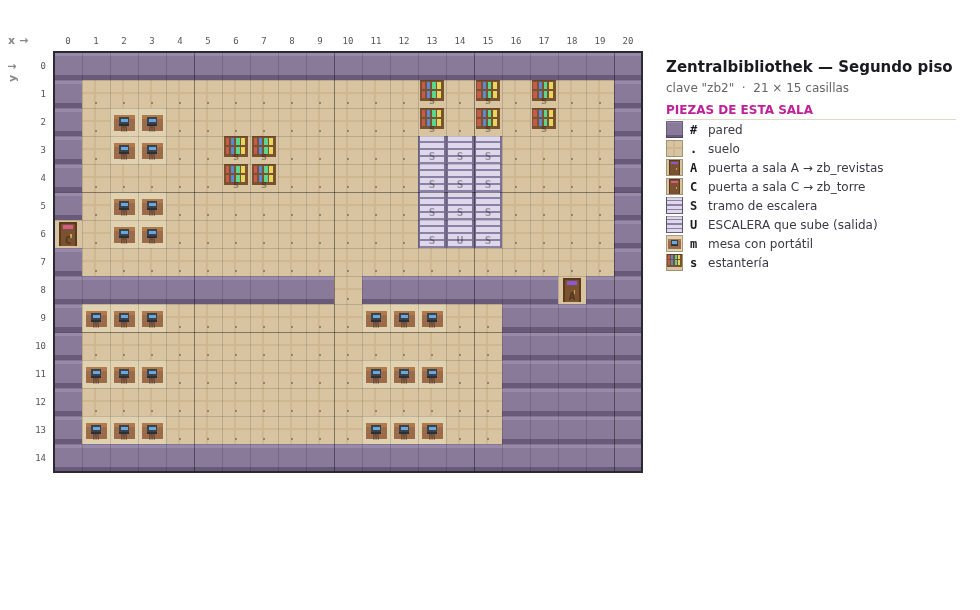
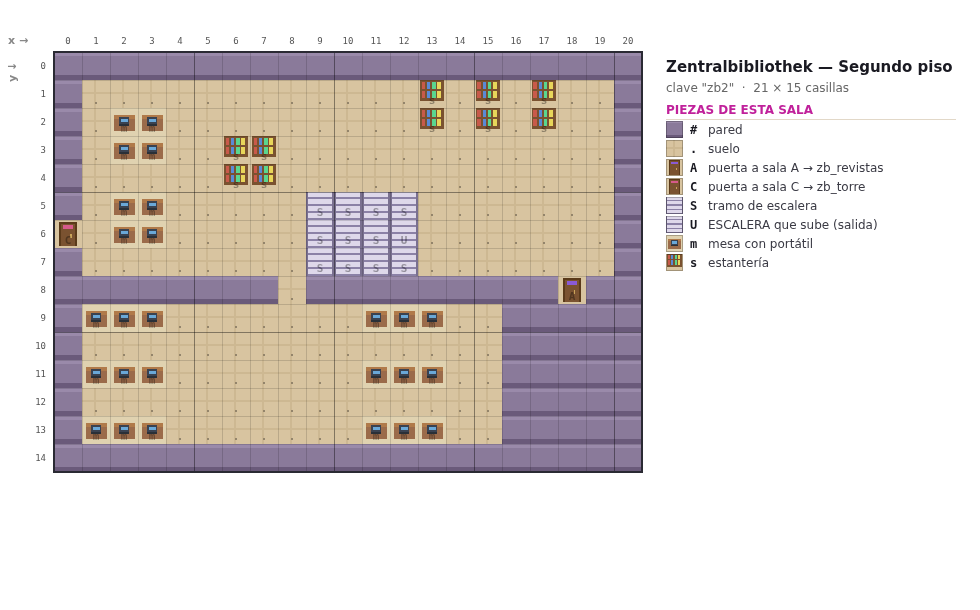
Girar las escaleras de la biblioteca y generalizar el sentido de subida
Las dos escaleras de la Zentralbibliothek pasan de verticales a
horizontales, giradas 90 grados a la izquierda: en la planta baja, esquina
superior izquierda en (6,7), pegada al tabique que separa el vestíbulo de
la recepción; en el segundo piso, esquina superior derecha en (12,5). Se
sube de izquierda a derecha y se baja de derecha a izquierda.

Para que esto funcione, el motor deja de dar por hecho que una escalera se
recorre hacia arriba. dirEscalera() deduce el sentido de la forma del
tramo: recorre el bloque de peldaños, y si es más ancho que alto se sube en
horizontal, si no en vertical; la dirección va del peldaño activo hacia el
resto del tramo. usarEscalera() usa ese vector tanto para meterse en el
tramo como para salir por el del otro piso. Las escaleras verticales de la
Mensa siguen dando [0,-1] y se comportan igual que antes.

Efecto colateral que hubo que resolver: la fila inferior de la escalera del
segundo piso caía justo sobre el paso del tabique, en x=10, y lo dejaba
tapado. El paso se mueve a x=8, a la izquierda de la escalera.

Probado en navegador real: subida y bajada de la biblioteca terminando en
las casillas esperadas, el paso del tabique despejado, y la Mensa sin
regresión. Sin errores de JS. validateMaps() da 0 errores y 0 avisos.

Claude-Session: https://claude.ai/code/session_01MUkCxWMxEAWrFgXYAJ3j4N

Changed region(s): [[0.2755, 0.218, 0.5204, 0.4984]]

diff --git a/index.html b/index.html
@@ -641,12 +641,12 @@ const INTERIORS = {
       "#.s.s...........c...#",
       "#.s.s...........c...#",
       "#.s.s...........c...#",
-      "#.....SSS.......c...#",
-      "#.s.s.SSS.......c...#",
-      "#.s.s.SSS.......c...#",
-      "#.s.s.SVS...........#",
-      "#...................#",
-      "#...................#",
+      "#...............c...#",
+      "#.s.s...........c...#",
+      "#.s.s...........c...#",
+      "#.s.s.SSSS..........#",
+      "#.....VSSS..........#",
+      "#.....SSSS..........#",
       "###########.#########",
       "#.II.II.II.......####",
       "#................#A##",
@@ -655,7 +655,7 @@ const INTERIORS = {
       "###########E#########",
     ],
     doors:[
-      {x:7, y:7,  to:'zb2'},
+      {x:6, y:8,  to:'zb2'},
       {x:18,y:12, to:'zb_bano_m'},
       {x:18,y:14, to:'zb_bano_h'},
     ],
@@ -688,12 +688,12 @@ const INTERIORS = {
       "#####################",
       "#............s.s.s..#",
       "#.mm.........s.s.s..#",
-      "#.mm..ss.....SSS....#",
-      "#.....ss.....SSS....#",
-      "#.mm.........SSS....#",
-      "C.mm.........SUS....#",
-      "#...................#",
-      "##########.#######A##",
+      "#.mm..ss............#",
+      "#.....ss............#",
+      "#.mm.....SSSS.......#",
+      "C.mm.....SSSU.......#",
+      "#........SSSS.......#",
+      "########.#########A##",
       "#mmm.......mmm..#####",
       "#...............#####",
       "#mmm.......mmm..#####",
@@ -1898,6 +1898,28 @@ function avanzarGuion(){
   player.dir = nx>player.x?'right' : nx<player.x?'left' : ny>player.y?'down' : 'up';
   player.tx=nx; player.ty=ny; player.moving=true;
 }
+// bordes del tramo de escalera al que pertenece una casilla
+function tramoEscalera(g,x,y){
+  const es=(a,b)=>{const c=(g[b]||'')[a]; return c==='S'||c==='V'||c==='U';};
+  const vistos=new Set([x+','+y]), cola=[[x,y]];
+  let x0=x,x1=x,y0=y,y1=y;
+  while(cola.length){
+    const [a,b]=cola.pop();
+    x0=Math.min(x0,a); x1=Math.max(x1,a); y0=Math.min(y0,b); y1=Math.max(y1,b);
+    for(const [dx,dy] of [[0,-1],[0,1],[-1,0],[1,0]]){
+      const p=(a+dx)+','+(b+dy);
+      if(!vistos.has(p) && es(a+dx,b+dy)){ vistos.add(p); cola.push([a+dx,b+dy]); }
+    }
+  }
+  return {x0,x1,y0,y1};
+}
+// sentido en el que se recorre: del peldano activo hacia el resto del tramo.
+// Un tramo mas ancho que alto se sube en horizontal; si no, en vertical.
+function dirEscalera(g,x,y){
+  const t=tramoEscalera(g,x,y);
+  if((t.x1-t.x0) > (t.y1-t.y0)) return x<=(t.x0+t.x1)/2 ? [1,0] : [-1,0];
+  return y<=(t.y0+t.y1)/2 ? [0,1] : [0,-1];
+}
 // localiza el peldano activo de la escalera de una sala
 function escaleraDe(clave){
   const g=INTERIORS[clave].grid;
@@ -1906,17 +1928,19 @@ function escaleraDe(clave){
   return null;
 }
 function usarEscalera(ex,ey,destino,esSalida){
-  guionar([[ex,ey],[ex,ey-1],[ex,ey-2]], ()=>{      // se mete en el hueco
+  const [dx,dy]=dirEscalera(INTERIORS[scene].grid, ex, ey);
+  guionar([[ex,ey],[ex+dx,ey+dy],[ex+2*dx,ey+2*dy]], ()=>{   // recorre el tramo
     fade.style.opacity='1';
     setTimeout(()=>{
       let clave=destino;
       if(esSalida){ const prev=sceneStack.pop(); if(prev) clave=prev.scene; }
-      else sceneStack.push({scene:scene, x:ex, y:ey+1});
+      else sceneStack.push({scene:scene, x:ex-dx, y:ey-dy});
       const s=escaleraDe(clave);
       if(!s){ loadScene(clave,[1,1],'down'); fade.style.opacity='0'; guion=null; state='play'; return; }
-      loadScene(clave, [s[0], s[1]-2], 'down');
+      const [ax,ay]=dirEscalera(INTERIORS[clave].grid, s[0], s[1]);
+      loadScene(clave, [s[0]+2*ax, s[1]+2*ay], 'down');
       fade.style.opacity='0';
-      guionar([[s[0],s[1]-1],[s[0],s[1]],[s[0],s[1]+1]], ()=>{ state='play'; });
+      guionar([[s[0]+ax,s[1]+ay],[s[0],s[1]],[s[0]-ax,s[1]-ay]], ()=>{ state='play'; });
     },320);
   });
 }
